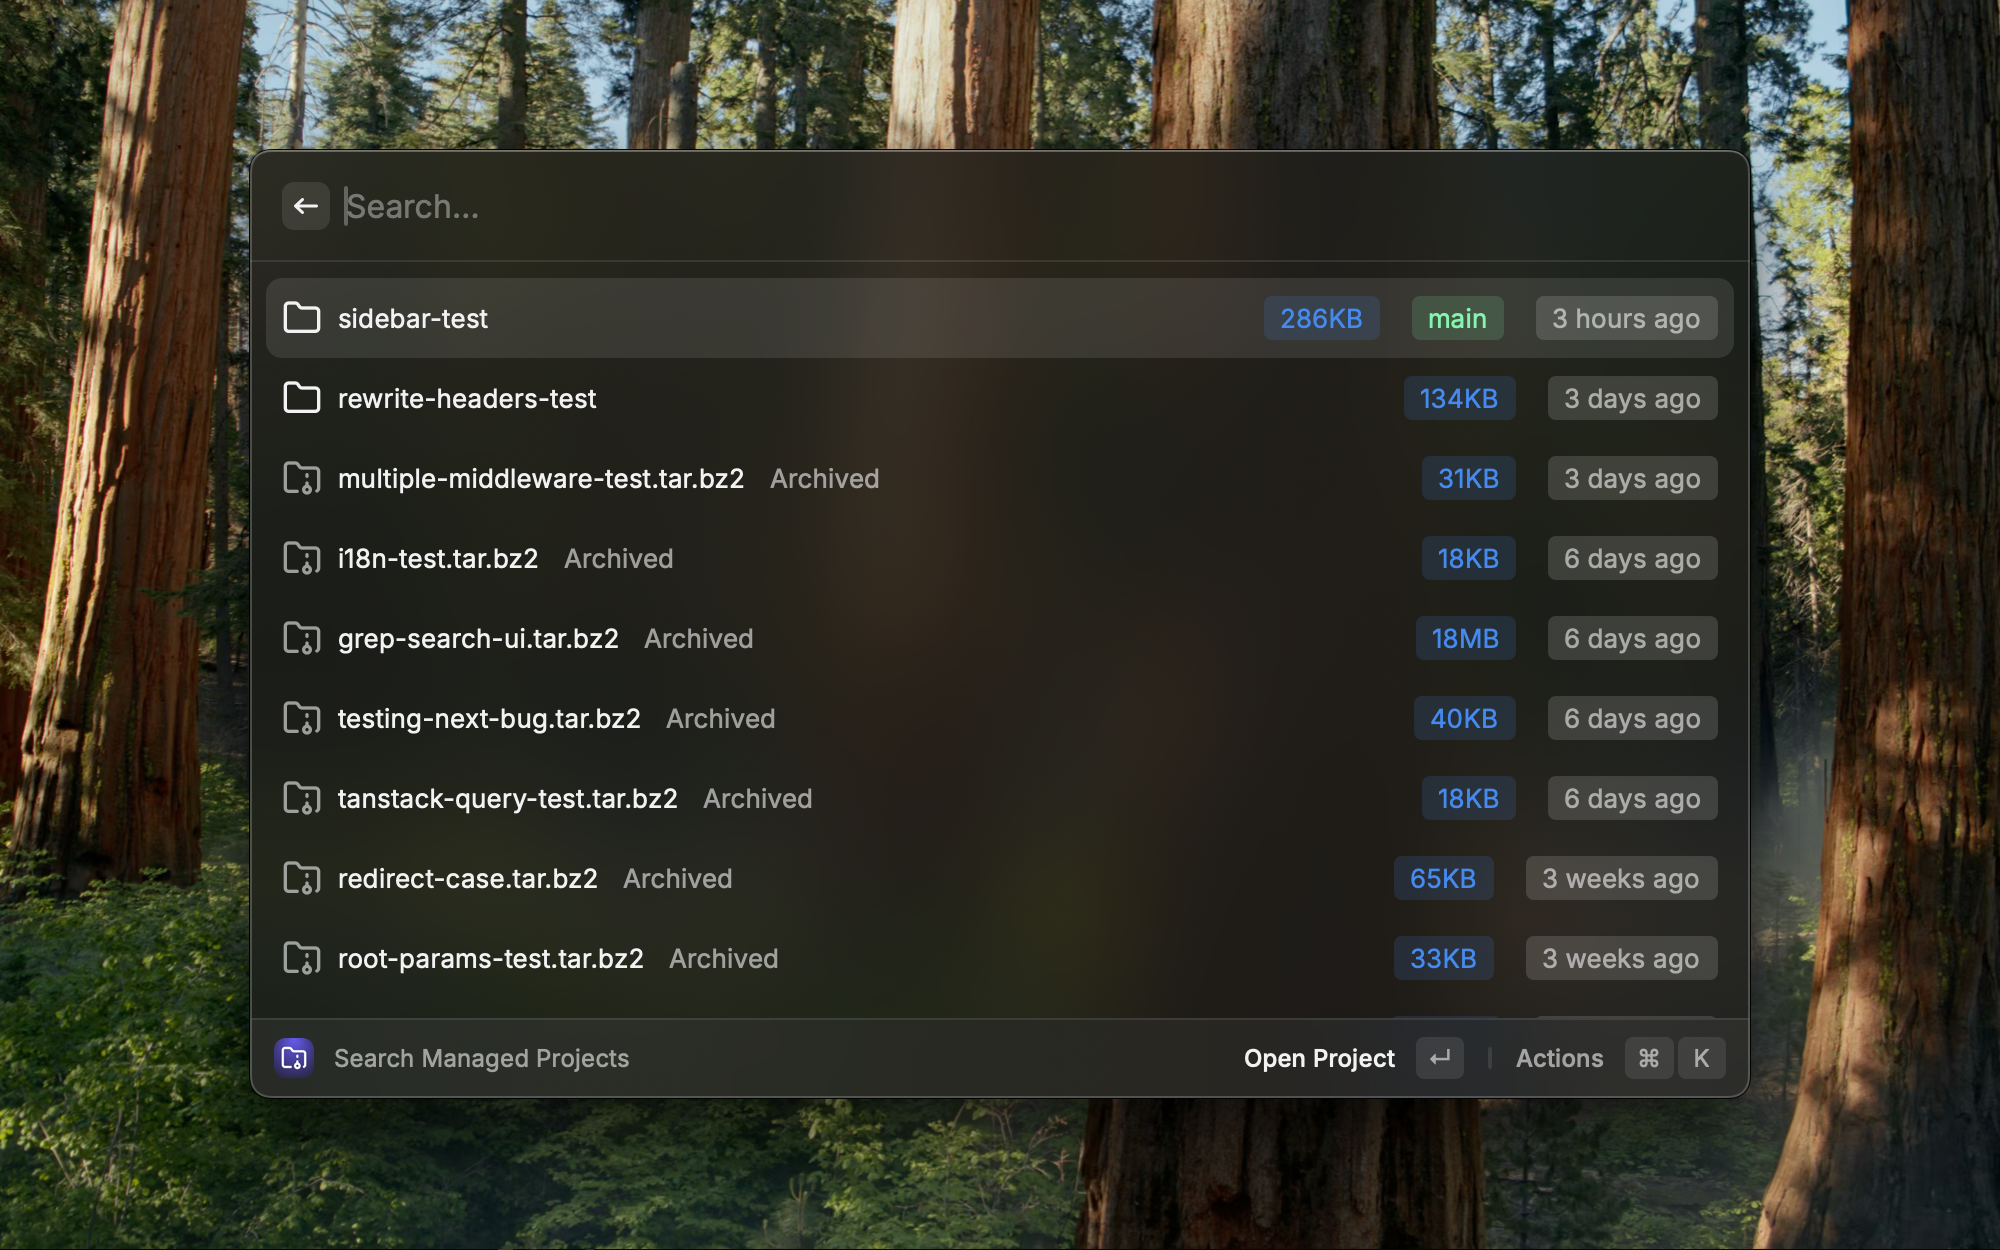
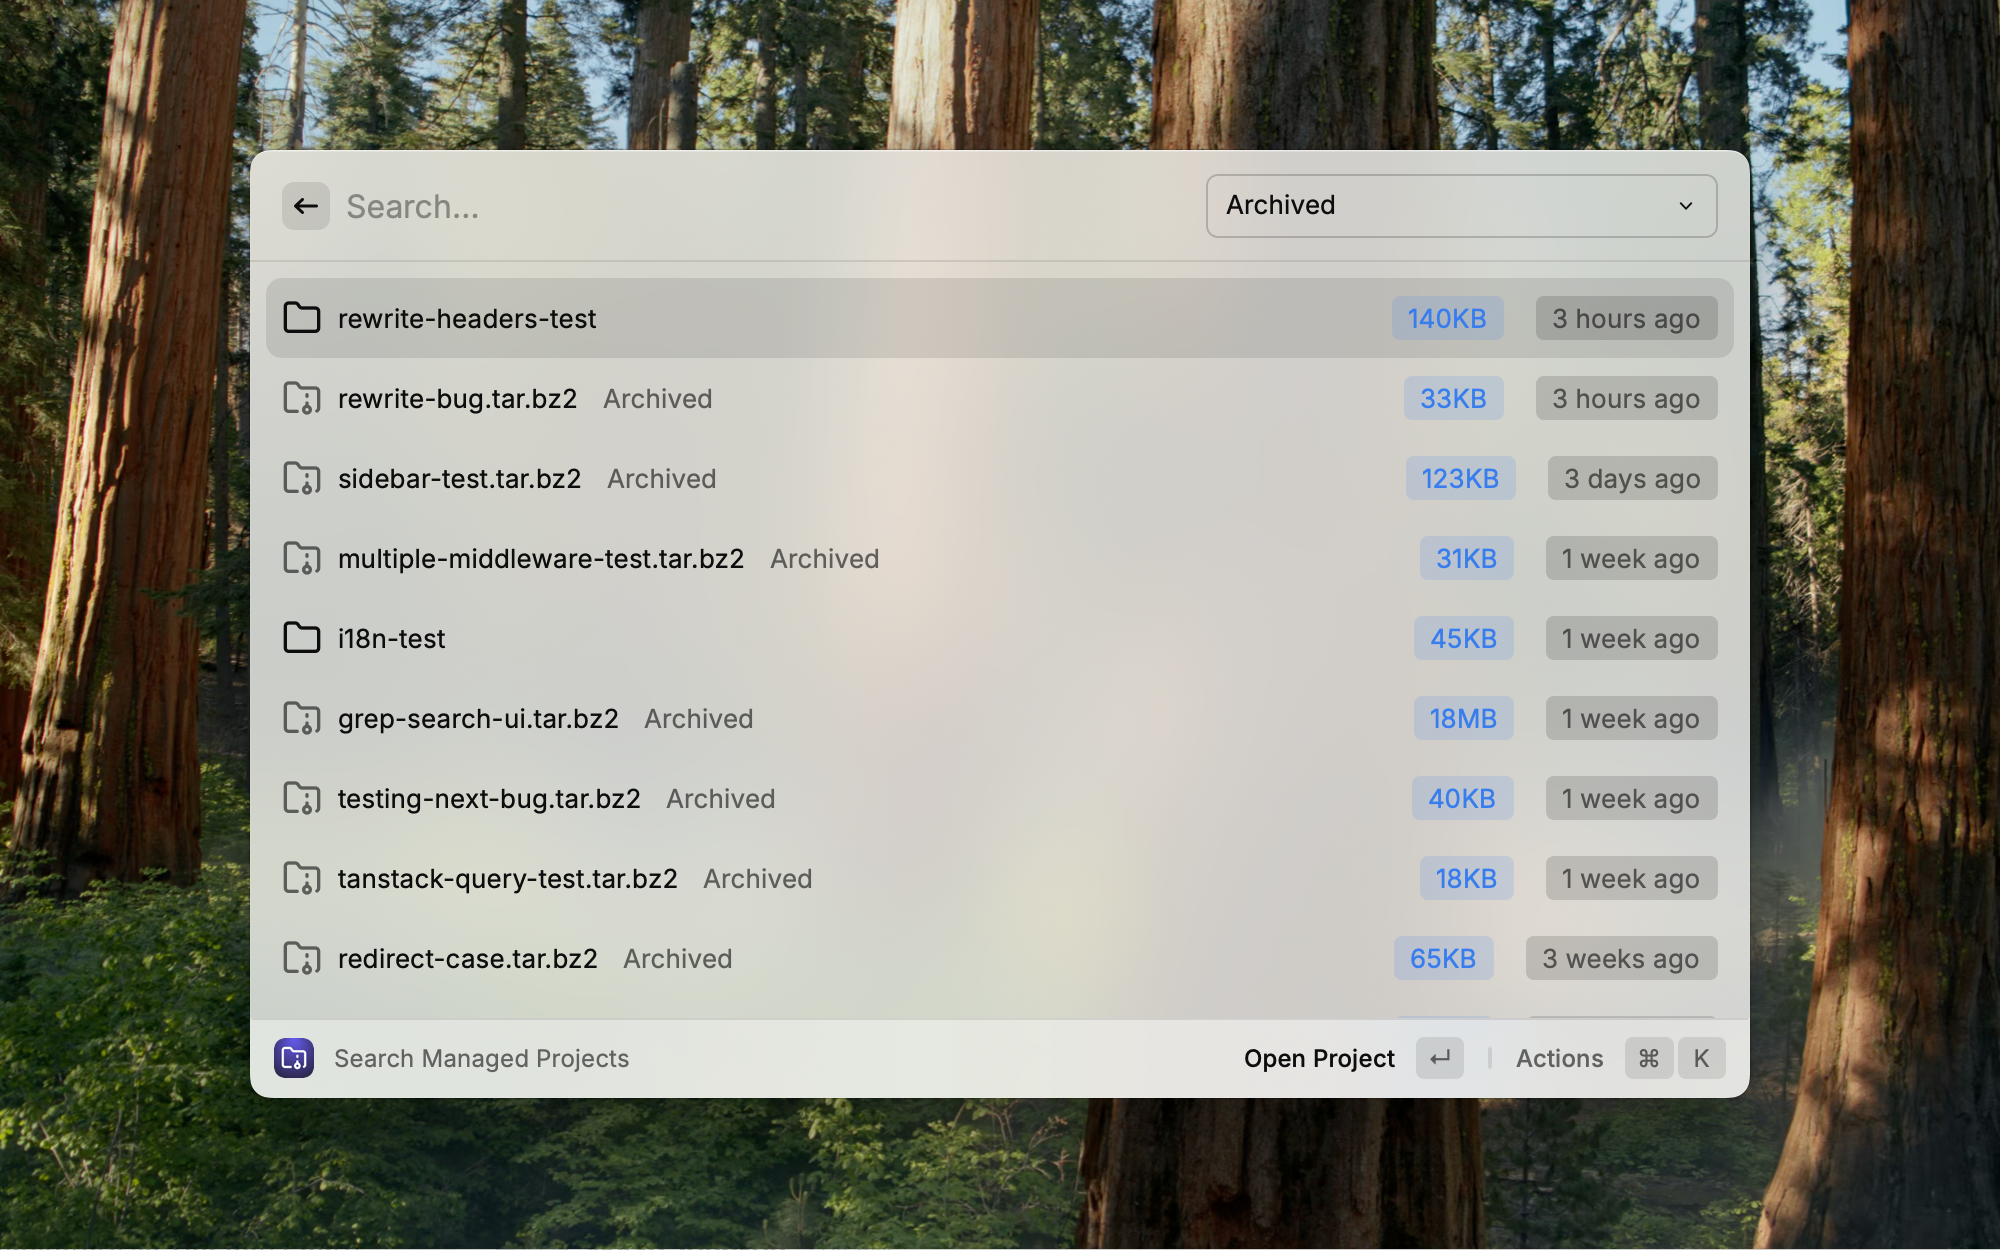
feat: added project dropdown

diff --git a/src/search-projects.tsx b/src/search-projects.tsx
@@ -1,4 +1,4 @@
-import { useCallback } from "react";
+import { startTransition, useCallback, useMemo, useState } from "react";
 import { Color, getPreferenceValues, Keyboard } from "@raycast/api";
 import { ActionPanel, Action, Icon, List, showToast, Toast } from "@raycast/api";
 import { showFailureToast, useCachedPromise } from "@raycast/utils";
@@ -9,11 +9,16 @@ import { archiveProject } from "./lib/archive-project";
 import type { Project } from "./types/project";
 import { unarchiveProject } from "./lib/unarchive-project";
 
+type View = Preferences.SearchProjects["defaultView"];
+
 export default function Command() {
-  const { directory, openWith, excludePatterns } = getPreferenceValues<Preferences.SearchProjects>();
+  const { directory, openWith, excludePatterns, defaultView } = getPreferenceValues<Preferences.SearchProjects>();
   const { data, isLoading, revalidate } = useCachedPromise(getProjects, [directory, excludePatterns.split(",")], {
-    // keepPreviousData: true,
+    keepPreviousData: true,
   });
+
+  const [selectedItemId, setSelectedItemId] = useState<string | undefined>(undefined);
+  const [view, setView] = useState<View>(defaultView);
 
   const onUnarchiveProject = useCallback(
     async (project: Project) => {
@@ -27,6 +32,13 @@ export default function Command() {
 
         revalidate();
 
+        if (view === "archived") {
+          startTransition(() => {
+            setView("all");
+            setSelectedItemId(project.id);
+          });
+        }
+
         showToast({
           title: "Project unarchived",
           message: `Project ${project.filename} has been unarchived`,
@@ -35,7 +47,7 @@ export default function Command() {
         showFailureToast(err);
       }
     },
-    [revalidate],
+    [revalidate, view],
   );
 
   const onArchiveProject = useCallback(
@@ -50,6 +62,13 @@ export default function Command() {
 
         revalidate();
 
+        if (view === "active") {
+          startTransition(() => {
+            setView("all");
+            setSelectedItemId(project.id);
+          });
+        }
+
         showToast({
           title: "Project archived",
           message: `Project ${project.filename} has been archived to ${archivePath}`,
@@ -58,12 +77,34 @@ export default function Command() {
         showFailureToast(err);
       }
     },
-    [revalidate, excludePatterns],
+    [revalidate, excludePatterns, view],
   );
 
+  const filtered = useMemo(() => {
+    if (view === "all") {
+      return data;
+    }
+
+    if (view === "archived") {
+      return data?.filter((item) => item.archived);
+    }
+
+    return data?.filter((item) => !item.archived);
+  }, [data, view]);
+
   return (
-    <List isLoading={isLoading}>
-      {data?.map((item) => (
+    <List
+      isLoading={isLoading}
+      selectedItemId={selectedItemId}
+      searchBarAccessory={
+        <List.Dropdown tooltip="Dropdown With Items" onChange={(value) => setView(value as View)}>
+          <List.Dropdown.Item title="All" value="all" />
+          <List.Dropdown.Item title="Active" value="active" />
+          <List.Dropdown.Item title="Archived" value="archived" />
+        </List.Dropdown>
+      }
+    >
+      {filtered?.map((item) => (
         <List.Item
           key={item.id}
           title={item.filename}
